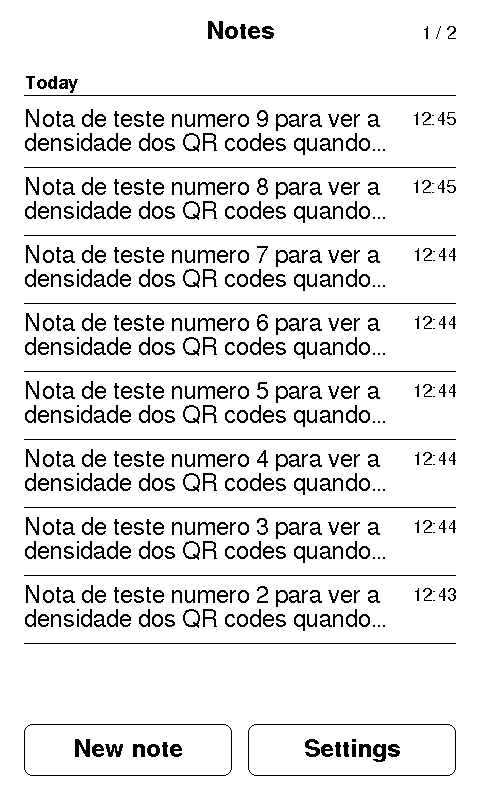
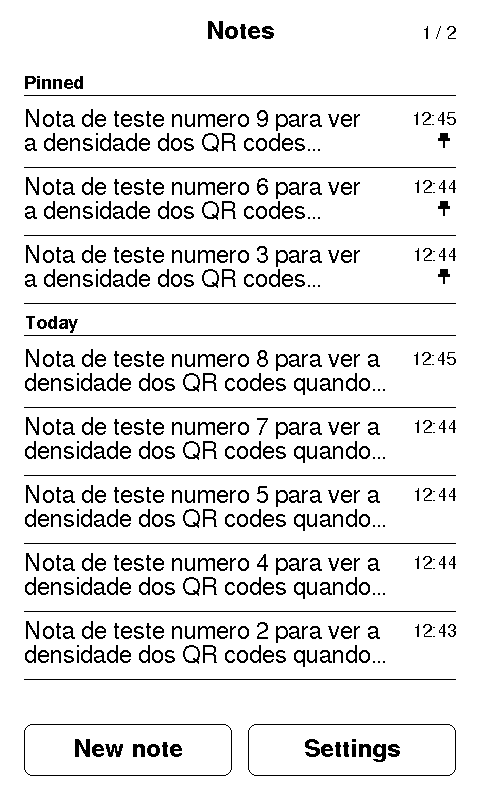
v0.4.0: sleep goes to the lock screen, equal lock margins, single Cancel outline, 'More at brain.local', no Sound row, Add a network at the bottom, uniform QR density, restored notes export again, update check inline in About, Install page chained to Release, brain.local creates, edits, archives, ex

diff --git a/firmware/brainos/web.cpp b/firmware/brainos/web.cpp
@@ -5,12 +5,14 @@
 #include "config.h"
 #include "net.h"
 #include "notes.h"
+#include "ota.h"
 #include "provjson.h"
 #include "stt.h"
 
 static WebServer server(80);
 static bool started;
 extern void uiNotesChanged();
+extern void updateRequest(bool install);
 extern const char *const VERSION;
 
 static String html(const String &s) {
@@ -47,7 +49,7 @@ static const char *CSS =
   ".n p{margin:0 0 8px;white-space:pre-wrap;font-size:17px}.n .m{color:#777;font-size:13px}"
   ".n form{display:inline}button,input[type=submit]{font:inherit;font-size:14px;padding:6px 12px;border-radius:8px;border:1px solid #bbb;background:#fff;margin:2px 4px 0 0}"
   "button.d{color:#b00}input[type=text],input[type=password],input[type=number]{font:inherit;width:100%;box-sizing:border-box;padding:8px;border:1px solid #bbb;border-radius:8px;margin:4px 0 10px}"
-  "label{font-size:14px;color:#444}.pend{color:#a60}.pin{font-size:13px;color:#06c}a{color:#06c}";
+  "label{font-size:14px;color:#444}.pend{color:#a60}.pin{font-size:13px;color:#06c}a{color:#06c}textarea{font:inherit;width:100%;box-sizing:border-box;padding:8px;border:1px solid #bbb;border-radius:8px;margin:4px 0 6px;min-height:70px}details{margin-top:6px}summary{cursor:pointer;font-size:14px;color:#06c}";
 
 static void sendPage(const String &msg) {
   String p = "<!doctype html><html><head><meta charset='utf-8'><meta name='viewport' content='width=device-width,initial-scale=1'><title>" + html(cfg::str("device.name")) + "</title><style>" + CSS + "</style></head><body>";
@@ -58,6 +60,7 @@ static void sendPage(const String &msg) {
   if (!sttConfigured()) p += "<p class='pend'>No OpenRouter key yet: recordings wait until one is set below.</p>";
   else if (strlen(sttLastError())) p += "<p class='pend'>Last transcription problem: " + html(sttLastError()) + "</p>";
 
+  p += "<h2>New note</h2><form method='post' action='/new'><textarea name='text' placeholder='Type a note'></textarea><input type='submit' value='Save note'></form>";
   p += "<h2>Notes</h2>";
   auto &all = notesAll();
   std::vector<int> idx;
@@ -71,11 +74,19 @@ static void sendPage(const String &msg) {
     else p += "<p>" + html(n.text) + "</p>";
     p += "<div class='m'>" + when(n.created) + (n.pinned ? " · <span class='pin'>pinned</span>" : "") + "</div>";
     p += "<form method='post' action='/note'><input type='hidden' name='id' value='" + n.id + "'>";
-    p += "<button name='do' value='pin'>" + String(n.pinned ? "Unpin" : "Pin") + "</button><button name='do' value='archive'>Archive</button><button class='d' name='do' value='delete' onclick='return confirm(\"Delete this note?\")'>Delete</button></form></div>";
+    p += "<button name='do' value='pin'>" + String(n.pinned ? "Unpin" : "Pin") + "</button><button name='do' value='archive'>Archive</button><button class='d' name='do' value='delete' onclick='return confirm(\"Delete this note?\")'>Delete</button></form>";
+    if (!n.audio.length()) p += "<details><summary>Edit</summary><form method='post' action='/note'><input type='hidden' name='id' value='" + n.id + "'><input type='hidden' name='do' value='edit'><textarea name='text'>" + html(n.text) + "</textarea><input type='submit' value='Save'></form></details>";
+    p += "</div>";
   }
   int arch = notesCount(true);
   p += "<p class='s'><a href='/notes.md'>Download all notes (.md)</a> · <a href='/notes.json'>JSON</a>" + (arch ? " · " + String(arch) + " archived (<a href='/archive'>see</a>)" : String()) + "</p>";
 
+  int fresh = 0;
+  for (auto &n : all) if (!n.archived && !n.exported && !n.audio.length() && n.text.length()) fresh++;
+  p += "<h2>Export</h2><p class='s'>" + String(fresh) + " new note" + (fresh == 1 ? "" : "s") + " not exported yet. Exporting here downloads them as Markdown and " + (cfg::flag("export.archive") ? "moves them to the Archive" : "marks them exported") + ", like the QR export on the board.</p>";
+  if (fresh) p += "<form method='post' action='/export'><input type='submit' value='Export new notes (.md)'></form>";
+  UpdInfo u = updInfo();
+  p += "<h2>Update</h2><p class='s'>This board: " + String(updVersion()) + (u.checkedMs ? ". " + html(u.status) : "") + "</p><form method='post' action='/update'><button name='do' value='check'>Check for update</button>" + (u.available ? "<button name='do' value='install' onclick='return confirm(\"Install " + html(u.latest) + "? The board restarts.\")'>Install " + html(u.latest) + "</button>" : String()) + "</form>";
   p += "<h2>Settings</h2><form method='post' action='/settings'>";
   p += "<label>OpenRouter API key " + String(sttConfigured() ? "(set; leave empty to keep)" : "(not set)") + "</label><input type='password' name='key' placeholder='sk-or-...' autocomplete='off'>";
   p += "<label>Speech-to-text model</label><input type='text' name='model' value='" + html(cfg::str("stt.model")) + "'>";
@@ -123,11 +134,44 @@ static void handleNote() {
       n->modified = time(nullptr); notesSave();
     }
     else if (d == "archive") { n->archived = true; n->pinned = false; notesSave(); }
-    else if (d == "restore") { n->archived = false; notesSave(); }
+    else if (d == "restore") { n->archived = false; n->exported = false; notesSave(); }
+    else if (d == "edit") { String t = server.arg("text"); t.trim(); if (t.length()) { n->text = t; n->modified = time(nullptr); notesSave(); } }
   }
   uiNotesChanged();
   server.sendHeader("Location", server.arg("back").length() ? server.arg("back") : "/");
   server.send(303, "text/plain", "");
+}
+
+static void handleNew() {
+  netTouch();
+  String t = server.arg("text"); t.trim();
+  if (t.length()) notesAdd(t, "", 0);
+  uiNotesChanged();
+  server.sendHeader("Location", "/");
+  server.send(303, "text/plain", "");
+}
+
+static void handleExport() {
+  netTouch();
+  String p = "# " + cfg::str("device.name") + ", exported " + when(time(nullptr)) + "\n\n";
+  auto &all = notesAll();
+  std::vector<int> idx;
+  for (size_t i = 0; i < all.size(); i++) if (!all[i].archived && !all[i].exported && !all[i].audio.length() && all[i].text.length()) idx.push_back(i);
+  std::sort(idx.begin(), idx.end(), [&](int a, int b) { return all[a].created < all[b].created; });
+  bool archive = cfg::flag("export.archive");
+  for (int i : idx) { Note &n = all[i]; p += "- **" + when(n.created) + "**\n  " + n.text + "\n"; n.exported = true; if (archive) { n.archived = true; n.pinned = false; } }
+  if (!idx.empty()) notesSave();
+  uiNotesChanged();
+  server.sendHeader("Content-Disposition", "attachment; filename=brainos-export.md");
+  server.send(200, "text/markdown; charset=utf-8", p);
+}
+
+static void handleUpdate() {
+  netTouch();
+  bool install = server.arg("do") == "install" && updInfo().available;
+  updateRequest(install);
+  String p = "<!doctype html><html><head><meta charset='utf-8'><meta http-equiv='refresh' content='" + String(install ? 90 : 12) + ";url=/'><style>" + String(CSS) + "</style></head><body><h1>" + String(install ? "Installing" : "Checking for an update") + "</h1><p class='s'>" + (install ? "The board downloads the release, checks it and restarts. This page comes back in a minute and a half." : "This page comes back in a few seconds.") + "</p></body></html>";
+  server.send(200, "text/html; charset=utf-8", p);
 }
 
 static void handleArchive() {
@@ -169,6 +213,9 @@ void webBegin() {
   server.on("/", HTTP_GET, handleRoot);
   server.on("/settings", HTTP_POST, handleSettings);
   server.on("/note", HTTP_POST, handleNote);
+  server.on("/new", HTTP_POST, handleNew);
+  server.on("/export", HTTP_POST, handleExport);
+  server.on("/update", HTTP_POST, handleUpdate);
   server.on("/archive", HTTP_GET, handleArchive);
   server.on("/notes.md", HTTP_GET, handleMd);
   server.on("/notes.json", HTTP_GET, handleJson);

diff --git a/firmware/brainos/ui.cpp b/firmware/brainos/ui.cpp
@@ -120,7 +120,7 @@ static void button(int x, int y, int w, int h, const char *label, bool filled) {
 
 struct Row { int noteIndex; int y, h; String day; };  // noteIndex -1: a day header
 static std::vector<Row> rows;
-static const int ROW_H = 68, HEAD_H = 36, LIST_TOP = BAR + 8, LIST_BOTTOM_PAD = 110;
+static const int ROW_H = 68, HEAD_H = 36, LIST_TOP = BAR + 8, LIST_BOTTOM_PAD = 88;
 
 static std::vector<int> listed(bool archived) {
   auto &all = notesAll();
@@ -207,7 +207,7 @@ static int rowAt(int y) {  // the note index under y on the current page, or -1
 static void drawLock() {
   char buf[64];
   if (now.battery) snprintf(buf, sizeof(buf), "%d%%", now.percent); else strcpy(buf, "--%");
-  textCentre(W / 2, 40, F_S12, buf);
+  textCentre(W / 2, 32 + 17, F_S12, buf);   // 32 px from the top edge of the text
   time_t t = time(nullptr); struct tm tm; localtime_r(&t, &tm);
   bool known = t > 1700000000;
   if (known) strftime(buf, sizeof(buf), "%H:%M", &tm); else strcpy(buf, "--:--");
@@ -236,7 +236,7 @@ static void drawLock() {
   }
   int count = notesCount(false);
   snprintf(buf, sizeof(buf), "%d note%s", count, count == 1 ? "" : "s");
-  textCentre(W / 2, H - 70, F_S12, buf);
+  textCentre(W / 2, H - 32, F_S12, buf);   // 32 px from the bottom
 }
 
 static void drawNotes() {
@@ -278,9 +278,8 @@ static void drawSettings() {
   settingsRow(0, "Wi-Fi", netUp() ? netName() : String(cfg::wifiNetworks().size()) + " saved");
   settingsRow(1, "Export", "");
   settingsRow(2, "Archive", notesCount(true) ? String(notesCount(true)) : String(""));
-  settingsRow(3, "Sound", soundOn ? "On" : "Off");
-  settingsRow(4, "About", "");
-  textCentre(W / 2, H - 60, F_S9, "More settings at http://brain.local");
+  settingsRow(3, "About", "");
+  textCentre(W / 2, H - 32, F_S12, "More at brain.local");
 }
 
 static void drawWifi() {
@@ -291,9 +290,8 @@ static void drawWifi() {
     settingsRow(i, fitted(F_S12, nets[i].ssid, W - 48 - 130).c_str(), (int)i == forgetArmed ? "Forget?" : on ? "connected" : "");
   }
   if (nets.empty()) text(24, BAR + 56, F_S12, "No saved networks");
-  int by = BAR + 12 + nets.size() * SROW + 16;
-  button(24, by, W - 48, 52, "Add a network", false);
-  if (wifiMsg.length()) textCentre(W / 2, by + 52 + 36, F_S9, fitted(F_S9, wifiMsg, W - 48).c_str());
+  button(24, FOOT_Y, W - 48, 52, "Add a network", false);
+  if (wifiMsg.length()) textCentre(W / 2, FOOT_Y - 24, F_S9, fitted(F_S9, wifiMsg, W - 48).c_str());
 }
 
 static void drawWifiScan() {
@@ -320,24 +318,17 @@ static void drawAbout() {
   };
   int y = BAR + 40;
   for (auto &l : lines) { if (!l.length()) continue; auto w = wrapLines(F_S9, l, W - 48, 2); for (auto &t : w) { text(24, y, F_S9, t.c_str()); y += 24; } y += 6; }
-  button(24, FOOT_Y, W - 48, 52, "Check for update", false);
+  UpdInfo u = updInfo();
+  if (u.status.length() && u.checkedMs) { auto w = wrapLines(F_S9, u.status, W - 48, 3); y += 10; for (auto &t : w) { text(24, y, F_S9, t.c_str()); y += 24; } }
+  if (u.state == UPD_INSTALLING) button(24, FOOT_Y, W - 48, 52, "Installing, don't switch off", true);
+  else if (u.available) {
+    int bw = (W - 48 - 16) / 2;
+    button(24, FOOT_Y, bw, 52, "Check again", false);
+    button(24 + bw + 16, FOOT_Y, bw, 52, ("Install " + u.latest).c_str(), true);
+  } else button(24, FOOT_Y, W - 48, 52, u.state == UPD_CHECKING ? "Checking…" : "Check for update", false);
 }
 
 static void drawKeyboard() { keyboardDraw(kb, 8); }
-
-static void drawUpdate() {
-  topBar("Update", true);
-  UpdInfo u = updInfo();
-  text(24, BAR + 40, F_S9, (String("This board: ") + updVersion()).c_str());
-  auto lines = wrapLines(F_S12, u.status, W - 48, 4);
-  for (size_t i = 0; i < lines.size(); i++) text(24, BAR + 84 + i * 26, F_S12, lines[i].c_str());
-  if (u.notes.length()) { auto n = wrapLines(F_S9, u.notes, W - 48, 8); for (size_t i = 0; i < n.size(); i++) text(24, BAR + 200 + i * 22, F_S9, n[i].c_str()); }
-  if (u.state == UPD_INSTALLING) textCentre(W / 2, H - 60, F_B12, "Installing, don't switch off");
-  else {
-    button(24, H - 76, (W - 48 - 16) / 2, 52, "Check now", false);
-    if (u.available) button(24 + (W - 48 - 16) / 2 + 16, H - 76, (W - 48 - 16) / 2, 52, "Install", true);
-  }
-}
 
 static void startWifiScan() {
   canvas->fillScreen(PAPER); topBar("Networks", true); textCentre(W / 2, H / 2, F_S12, "Scanning…"); show(false);
@@ -403,7 +394,6 @@ void uiRender(bool full) {
     case SCREEN_WIFI: drawWifi(); break;
     case SCREEN_WIFI_SCAN: drawWifiScan(); break;
     case SCREEN_ABOUT: drawAbout(); break;
-    case SCREEN_UPDATE: drawUpdate(); break;
     case SCREEN_LISTENING: drawListening(); break;
     case SCREEN_SAVED: drawSaved(); break;
   }
@@ -447,7 +437,7 @@ void uiTap(int x, int y) {
       bool right = x >= 24 + bw + 16, row1 = y >= by && y < by + 52, row2 = y >= by + 64 && y < by + 116;
       if (row1 && !right) { pinNote(*n); deleteArmed = false; uiRender(false); }
       else if (row1 && right) { keyboardBegin(kb, n->text, "Edit the note", "", 1000); kbPurpose = 1; kbBack = SCREEN_NOTE; uiGo(SCREEN_KEYBOARD); }
-      else if (row2 && !right) { n->archived = !n->archived; if (n->archived) n->pinned = false; n->modified = time(nullptr); notesSave(); uiGo(n->archived ? SCREEN_NOTES : SCREEN_ARCHIVE); }
+      else if (row2 && !right) { n->archived = !n->archived; if (n->archived) n->pinned = false; else n->exported = false; n->modified = time(nullptr); notesSave(); uiGo(n->archived ? SCREEN_NOTES : SCREEN_ARCHIVE); }
       else if (row2 && right) {
         if (!deleteArmed) { deleteArmed = true; uiRender(false); }
         else { notesRemove(openId); deleteArmed = false; uiGo(SCREEN_NOTES); }
@@ -481,15 +471,13 @@ void uiTap(int x, int y) {
       if (i == 0) uiGo(SCREEN_WIFI);
       else if (i == 1) { exportStart(); uiGo(SCREEN_EXPORT); }
       else if (i == 2) uiGo(SCREEN_ARCHIVE);
-      else if (i == 3) { soundOn = !soundOn; String e; String j = soundOn ? "true" : "false"; pj::Val v; pj::parse(j.c_str(), j.length(), v); cfg::setInPlace("sound", v, e); uiRender(false); }
-      else if (i == 4) uiGo(SCREEN_ABOUT);
+      else if (i == 3) uiGo(SCREEN_ABOUT);
       break;
     }
     case SCREEN_WIFI: {
       if (leftIcon(x, y)) { uiGo(SCREEN_SETTINGS); break; }
       std::vector<WifiCred> nets = cfg::wifiNetworks();
-      int by = BAR + 12 + nets.size() * SROW + 16;
-      if (y >= by && y < by + 52) { startWifiScan(); break; }
+      if (inFooter(y)) { startWifiScan(); break; }
       int i = settingsRowAt(y);
       if (i >= 0 && i < (int)nets.size()) {
         if (forgetArmed == i) { nets.erase(nets.begin() + i); String e; cfg::setWifiInPlace(nets, e); forgetArmed = -1; wifiMsg = "Forgotten"; }
@@ -521,16 +509,11 @@ void uiTap(int x, int y) {
     }
     case SCREEN_ABOUT:
       if (leftIcon(x, y)) uiGo(SCREEN_SETTINGS);
-      else if (inFooter(y)) { extern void updateRequest(bool install); uiGo(SCREEN_UPDATE); updateRequest(false); }
-      break;
-    case SCREEN_UPDATE: {
-      if (leftIcon(x, y)) { uiGo(SCREEN_ABOUT); break; }
-      if (y >= H - 76 && y < H - 24 && updState() != UPD_INSTALLING) {
+      else if (inFooter(y) && updState() != UPD_INSTALLING) {
         extern void updateRequest(bool install);
-        updateRequest(x >= 24 + (W - 48 - 16) / 2 + 16 && updInfo().available);
+        updateRequest(updInfo().available && x >= 24 + (W - 48 - 16) / 2 + 16);
       }
       break;
-    }
     default: break;
   }
 }

diff --git a/firmware/brainos/keyboard.cpp b/firmware/brainos/keyboard.cpp
@@ -190,12 +190,10 @@ void keyboardDraw(Keyboard &kb, int top) {
   int cw = 112, sw = 102;
   kb.cancelX = W - 12 - cw, kb.showX = kb.masked ? kb.cancelX - 12 - sw : kb.cancelX;
   text(16, top + 32, bf, fitted(bf, kb.label, kb.showX - 30).c_str());
-  canvas->drawRoundRect(kb.cancelX, top + 6, cw, 40, 20, INK);
-  canvas->drawRoundRect(kb.cancelX + 1, top + 7, cw - 2, 38, 19, INK);
+  canvas->drawRoundRect(kb.cancelX, top + 6, cw, 40, 8, INK);
   textCentre(kb.cancelX + cw / 2, top + 33, bf, "Cancel");
   if (kb.masked) {
-    canvas->drawRoundRect(kb.showX, top + 6, sw, 40, 20, INK);
-    canvas->drawRoundRect(kb.showX + 1, top + 7, sw - 2, 38, 19, INK);
+    canvas->drawRoundRect(kb.showX, top + 6, sw, 40, 8, INK);
     textCentre(kb.showX + sw / 2, top + 33, bf, kb.reveal ? "Hide" : "Show");
   }
   int keysAt = H - keyboardHeight(), fieldY = top + 54;

diff --git a/firmware/brainos/export.cpp b/firmware/brainos/export.cpp
@@ -61,7 +61,7 @@ bool exportStart() {
     String h = head; h.replace("\"i\":I", "\"i\":" + String(k + 1)); h.replace("\"n\":N", "\"n\":" + String(n));
     String pad;
     for (size_t z = parts[k].length(); z < longest; z++) pad += ' ';
-    parts[k] = h + parts[k] + "]" + (pad.length() ? ",\"pad\":\"" + pad + "\"" : String()) + "}";
+    parts[k] = h + parts[k] + "],\"pad\":\"" + pad + "\"}";   // the pad field is always there: same bytes, same QR version, same size
   }
   shownAt = millis();
   Serial.printf("export: batch %s, %u notes in %d parts\n", batch.c_str(), (unsigned)ids.size(), n);

diff --git a/firmware/brainos/ui.h b/firmware/brainos/ui.h
@@ -2,7 +2,7 @@
 #pragma once
 #include <Arduino.h>
 enum Screen { SCREEN_LOCK, SCREEN_NOTES, SCREEN_NOTE, SCREEN_ARCHIVE, SCREEN_EXPORT, SCREEN_SETTINGS, SCREEN_LISTENING, SCREEN_SAVED,
-              SCREEN_KEYBOARD, SCREEN_WIFI, SCREEN_WIFI_SCAN, SCREEN_ABOUT, SCREEN_UPDATE };
+              SCREEN_KEYBOARD, SCREEN_WIFI, SCREEN_WIFI_SCAN, SCREEN_ABOUT };
 extern Screen screen;
 void uiRender(bool full);
 void uiTap(int x, int y);

diff --git a/docs/guia.md b/docs/guia.md
@@ -3,11 +3,14 @@
 ## Botões e toques
 - **Segurar OK** (o botão de cima): grava. Fale, solte. A nota aparece como "Recording, N s" e vira texto quando houver Wi-Fi e a chave do OpenRouter.
 - **OK curto**: tranca a tela de onde você estiver; outro clique destranca e volta exatamente para onde estava. No teclado vale como Done; na exportação, como concluir.
-- **Dormir**: na bateria, após 30 minutos sem uso, ele dorme fundo com a tela congelada como estava; um clique em OK acorda no mesmo lugar. Na tomada não dorme. O Wi-Fi fica sempre ligado enquanto acordado.
+- **Dormir**: na bateria, após 30 minutos sem uso, ele vai para a lock screen e dorme fundo; um clique em OK acorda, outro destranca onde você estava. Na tomada não dorme. O Wi-Fi fica sempre ligado enquanto acordado.
 - **Cima/Baixo**: passam as páginas da lista; com uma nota aberta, vão para a anterior e a seguinte.
 - **Cima + Baixo juntos**: tranca. Segurando os dois por 2 s: dorme (OK acorda).
-- **Toque**: na lista, os botões New note e Settings embaixo; uma nota = abre (Pin, Edit, Archive, Delete). Settings tem Wi-Fi, Export, Archive, Sound e About; o resto fica em http://brain.local.
+- **Toque**: na lista, os botões New note e Settings embaixo; uma nota = abre (Pin, Edit, Archive, Delete). Settings tem Wi-Fi, Export, Archive e About; o resto fica em http://brain.local.
 - **Fixadas**: até 3; aparecem no topo da lista e na lock screen. Ao fixar uma quarta, a fixada mais antiga é liberada.
+
+## A página brain.local
+Com o aparelho na rede, abra http://brain.local no iPhone ou no Mac: lá dá para criar e editar notas, fixar, arquivar e apagar, exportar as novas em Markdown (que as arquiva, como o QR), baixar tudo, checar e instalar atualização, e mudar nome, fuso, modelo de transcrição, som e tempos.
 
 ## Rede e chave
 1. Settings → Wi-Fi → "Add a network": escolha a rede, digite a senha, Done.
@@ -18,7 +21,7 @@
 Settings → Export: o aparelho mostra os QR codes em sequência. No iPhone, abra a página leitora (https://carcaralivre.github.io/brainos-reader/), toque em Scan e aponte para a tela; a página junta as partes em qualquer ordem. Aperte OK no aparelho quando terminar: as notas vão para o Archive (configurável).
 
 ## Atualizar
-Settings → About → Check for update → Install. O aparelho só procura atualização quando você pede. Se a versão nova não ligar, o aparelho volta sozinho para a anterior.
+Settings → About → Check for update; se houver versão nova, aparece o botão Install ali mesmo. O aparelho só procura atualização quando você pede. Também dá para fazer pela página brain.local. Se a versão nova não ligar, o aparelho volta sozinho para a anterior.
 
 ## Restaurar o firmware da Seeed
 Pelo Playground da Seeed (https://www.seeedstudio.com/sticky/playground/official-firmware/), no Chrome, com o cabo USB.
